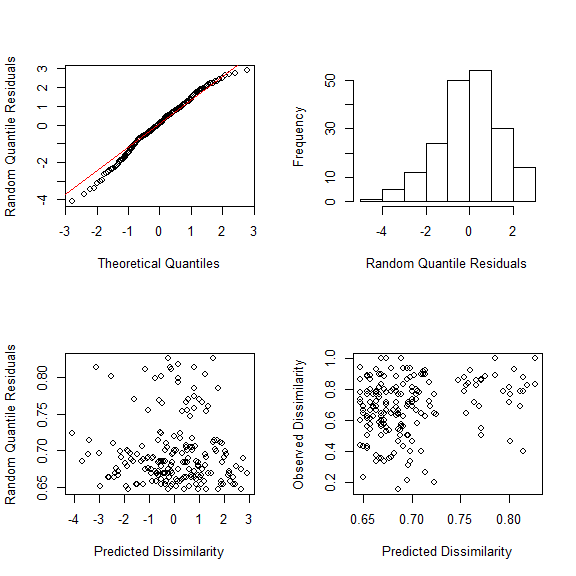
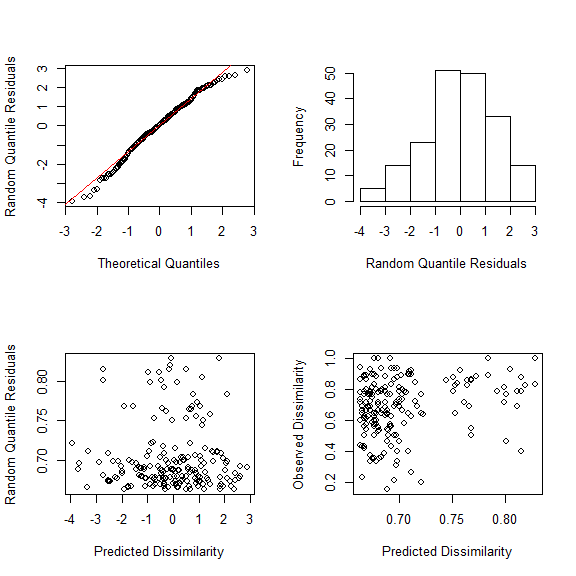
updates to readme and bspline calls.

diff --git a/README.md b/README.md
@@ -9,7 +9,7 @@ install.packages(c('devtools'))
 devtools::install_github('skiptoniam/bbgdm')
 ```
 
-##### Load the required libaries, we need vegan for the dune dataset.
+##### Load the required libraries, we need vegan for the dune dataset.
 
 ``` r
 library(bbgdm)
@@ -67,7 +67,7 @@ print(tab, type = "html")
 ```
 
 <!-- html table generated in R 3.2.2 by xtable 1.8-2 package -->
-<!-- Tue Jul 05 14:32:29 2016 -->
+<!-- Tue Jul 05 17:39:33 2016 -->
 <table border="1">
 <tr>
 <th>
@@ -87,7 +87,7 @@ bbgdm\_p-value
 intercept
 </td>
 <td align="right">
-8.78
+12.28
 </td>
 <td align="right">
 1.00
@@ -101,13 +101,47 @@ intercept
 A1
 </td>
 <td align="right">
-1.19
+1.63
 </td>
 <td align="right">
 3.00
 </td>
 <td align="right">
-0.76
+0.65
 </td>
 </tr>
 </table>
+##### Predict BBGDM model
+
+``` r
+#generate some random spatial autocorrelated data.
+library(raster)
+set.seed(123)
+xy <- expand.grid(x=seq(145, 150, 0.1), y=seq(-40, -35, 0.1))
+d <- as.matrix(dist(xy))
+w <- exp(-1/nrow(xy) * d)
+ww <- chol(w)
+xy$z <- t(ww) %*% rnorm(nrow(xy), 0, 0.1)
+xy$z <- scales::rescale(xy$z,range(dune.env$A1))
+coordinates(xy) <- ~x+y
+r <- rasterize(xy, raster(points2grid(xy)), 'z')
+#give it the same name as variable in bbgdm model.
+names(r)<- 'A1'
+
+#use this layer to predict turnover.
+pred.dune.sim.dat <- predict.bbgdm(fm1,r,uncertainty = TRUE)
+```
+
+    ## using default three cell neighbourhood to estimate dissimilarity
+
+``` r
+#plot the data and the turnover predictions, and error.
+colram <- colorRampPalette(c("darkblue","yellow","red"))
+colram.se <- colorRampPalette(c('antiquewhite','pink','red'))
+par(mfrow=c(1,3),mar=c(3,2,2,6))
+plot(r,main='Simulated A1')
+plot(pred.dune.sim.dat[[1]],col=colram(100),main='BBGDM turnover')
+plot(pred.dune.sim.dat[[2]],col=colram.se(100),main='BBGDM CV of turnover')
+```
+
+<img src="readme_files/figure-markdown_github/unnamed-chunk-8-1.png" style="display: block; margin: auto;" />
